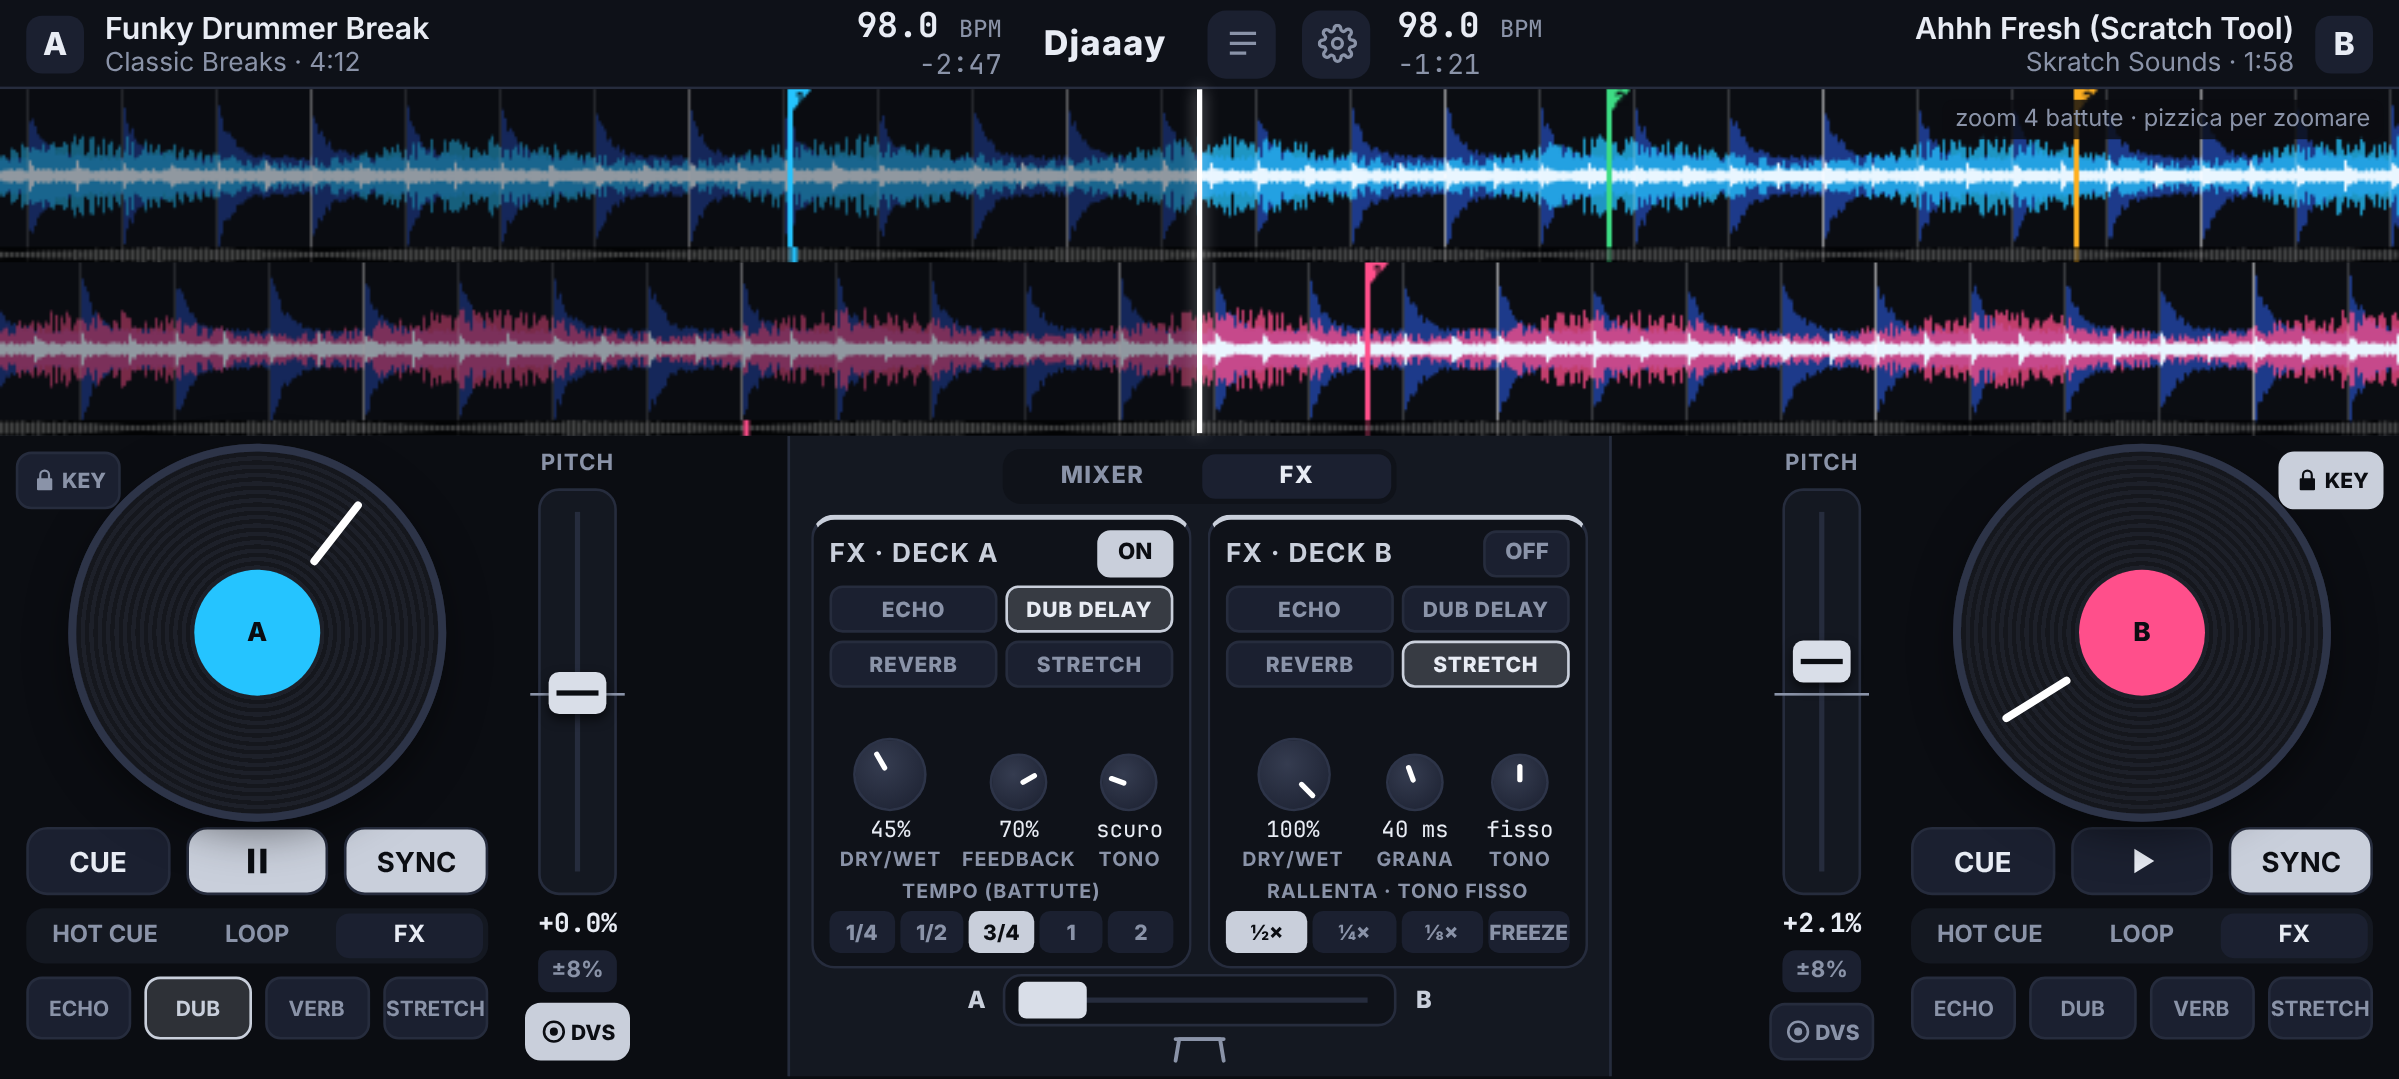
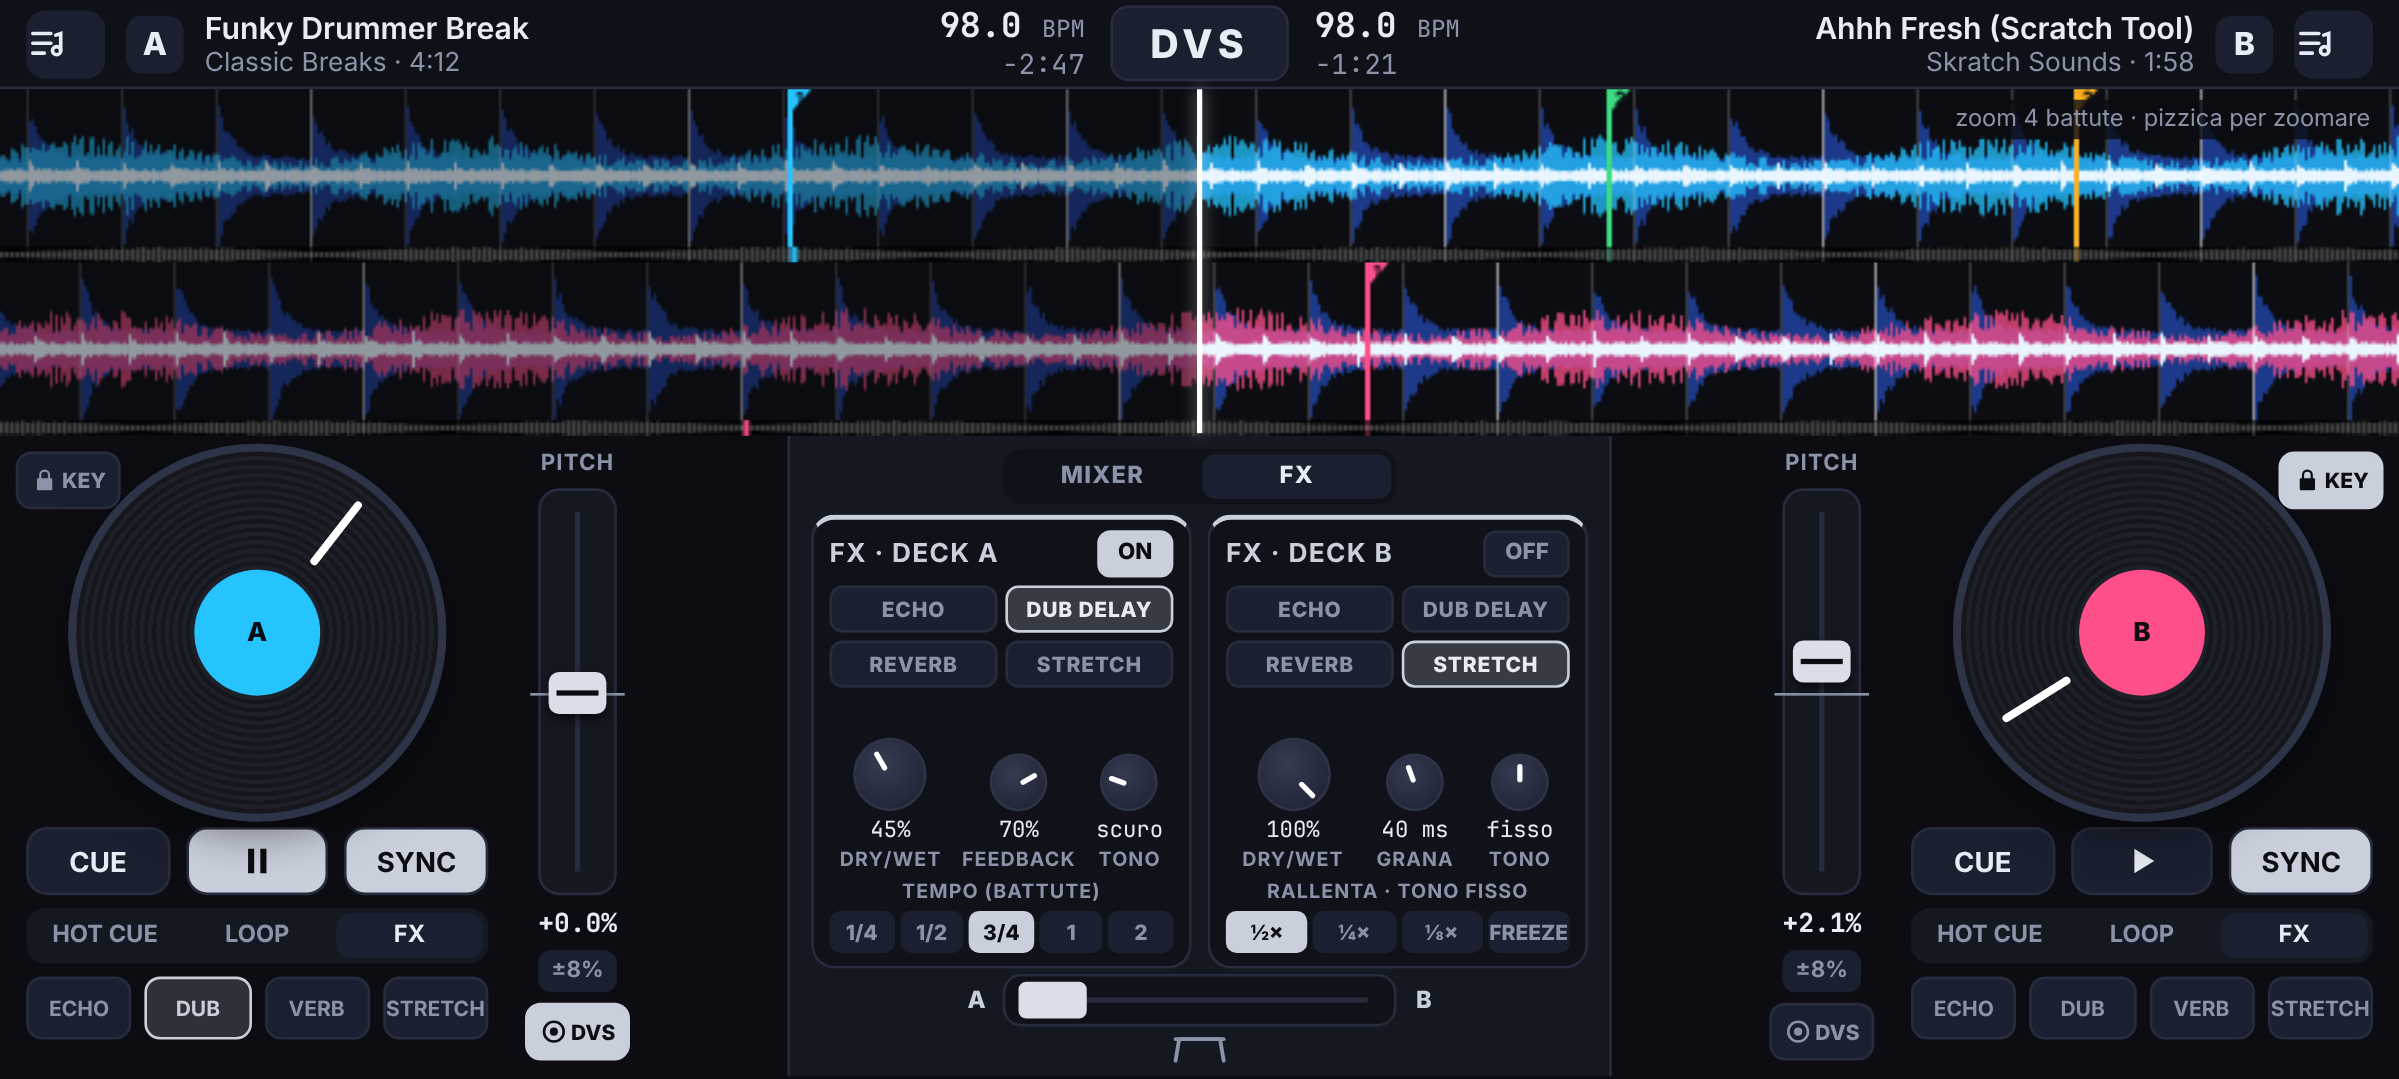
L'app si chiama DVS: nome al centro (apre le opzioni), libreria per deck
- applicationId com.toniaudio.dvs, etichetta DVS, Release con DVS.apk
- Bozze: libreria che si apre nello spazio del deck da cui la si apre

Claude-Session: https://claude.ai/code/session_01Q6837TbCDCCjM1wxVviTqv

Changed region(s): [[0.3393, 0.0, 0.6478, 0.0612], [0.7403, 0.0, 0.9871, 0.0612], [0.0, 0.0, 0.2159, 0.0612]]

diff --git a/design/bozze.html b/design/bozze.html
@@ -23,7 +23,7 @@ html,body{width:914px;height:411px;overflow:hidden;background:var(--bg);color:va
 .bpm{font-family:'JetBrains Mono';font-weight:700;font-size:13px}
 .bpm small{font-size:9px;color:var(--dim);font-weight:500}
 .time{font-family:'JetBrains Mono';color:var(--dim);font-size:10.5px}
-.logo{font-weight:800;letter-spacing:.5px;font-size:13px;padding:0 6px}
+.logo{font-weight:800;letter-spacing:2px;font-size:15px;padding:4px 14px;border-radius:7px;background:var(--panel2);border:1px solid var(--line)}
 .logo i{font-style:normal;color:var(--txt)}
 .ico{width:26px;height:26px;border-radius:7px;background:var(--panel2);display:grid;place-items:center;color:var(--dim)}
 .ico svg{width:15px;height:15px}
@@ -194,6 +194,28 @@ html,body{width:914px;height:411px;overflow:hidden;background:var(--bg);color:va
 .xcurve{width:22px;height:11px;color:var(--dim)}
 .col{position:relative}
 .kpos{position:absolute;top:0;z-index:2}
+
+.ico.lib{width:30px;height:26px;color:var(--txt)}
+.ico.lib.on{background:#c9cfdb;color:#0b0d12}
+/* libreria dentro il deck */
+.dlib{position:absolute;inset:0;background:#10131b;border:1px solid var(--line);border-radius:10px;margin:4px 6px;z-index:5;display:flex;flex-direction:column;overflow:hidden;box-shadow:0 8px 24px #000a}
+.dlh{display:flex;align-items:center;gap:6px;padding:6px 7px 4px}
+.dlh .srch{flex:1;height:24px;border-radius:7px;background:var(--panel);border:1px solid var(--line);display:flex;align-items:center;gap:6px;padding:0 8px;color:var(--dim);font-size:10px}
+.dlh .x{width:24px;height:24px;border-radius:6px;background:var(--panel2);display:grid;place-items:center;color:var(--dim)}
+.dlt{display:flex;gap:3px;padding:0 7px 4px}
+.dlt span{font-size:8.5px;font-weight:800;padding:3px 7px;border-radius:5px;color:var(--dim);background:var(--panel)}
+.dlt span.on{background:var(--panel2);color:var(--txt)}
+.dlr{display:grid;grid-template-columns:1fr 34px 30px;gap:6px;align-items:center;padding:0 9px;height:27px;border-top:1px solid #1a1f2c}
+.dlr .tt{min-width:0}
+.dlr .tt b{display:block;font-size:10px;font-weight:600;white-space:nowrap;overflow:hidden;text-overflow:ellipsis}
+.dlr .tt i{display:block;font-style:normal;font-size:8.5px;color:var(--dim);white-space:nowrap;overflow:hidden;text-overflow:ellipsis}
+.dlr .n{font-family:'JetBrains Mono';font-size:9.5px;text-align:right}
+.dlr .d{font-family:'JetBrains Mono';font-size:9px;color:var(--dim);text-align:right}
+.dlr.sel{background:#ffffff10}
+.dlr.car{color:var(--dim)}
+.dlf{margin-top:auto;padding:5px 8px;font-size:8.5px;color:var(--dim);border-top:1px solid var(--line);display:flex;justify-content:space-between}
+.dlrow-f{display:flex;align-items:center;gap:8px;padding:0 9px;height:27px;border-top:1px solid #1a1f2c;font-size:10px;font-weight:600}
+.dlrow-f em{font-style:normal;color:var(--dim);font-weight:500;margin-left:auto;font-size:9px}
 </style>
 </head>
 <body>
@@ -201,13 +223,11 @@ html,body{width:914px;height:411px;overflow:hidden;background:var(--bg);color:va
 <!-- ============ SCHERMATA 1: DECK ============ -->
 <div class="screen" id="s1">
   <div class="top">
-    <div class="trk"><div class="dot" style="background:var(--panel2);color:var(--txt)">A</div>
+    <div class="trk"><div class="ico lib" title="libreria deck A"><svg viewBox="0 0 24 24" fill="none" stroke="currentColor" stroke-width="2.2" stroke-linecap="round"><path d="M4 6h11M4 12h11M4 18h7"/><circle cx="18.5" cy="16.5" r="2.5"/><path d="M21 16.5V6l-3 1"/></svg></div><div class="dot" style="background:var(--panel2);color:var(--txt)">A</div>
       <div style="min-width:0"><div class="t">Funky Drummer Break</div><div class="s">Classic Breaks · 4:12</div></div>
       <div style="margin-left:auto;text-align:right"><div class="bpm">98.0 <small>BPM</small></div><div class="time">-2:47</div></div></div>
-    <div class="logo"><i>Djaaay</i></div>
-    <div class="ico" title="libreria"><svg viewBox="0 0 24 24" fill="none" stroke="currentColor" stroke-width="2"><path d="M4 6h16M4 12h16M4 18h10"/></svg></div>
-    <div class="ico" title="opzioni"><svg viewBox="0 0 24 24" fill="none" stroke="currentColor" stroke-width="2"><circle cx="12" cy="12" r="3"/><path d="M19.4 15a1.6 1.6 0 0 0 .3 1.8l.1.1a2 2 0 1 1-2.8 2.8l-.1-.1a1.6 1.6 0 0 0-1.8-.3 1.6 1.6 0 0 0-1 1.5V21a2 2 0 1 1-4 0v-.1a1.6 1.6 0 0 0-1-1.5 1.6 1.6 0 0 0-1.8.3l-.1.1a2 2 0 1 1-2.8-2.8l.1-.1a1.6 1.6 0 0 0 .3-1.8 1.6 1.6 0 0 0-1.5-1H3a2 2 0 1 1 0-4h.1a1.6 1.6 0 0 0 1.5-1 1.6 1.6 0 0 0-.3-1.8l-.1-.1a2 2 0 1 1 2.8-2.8l.1.1a1.6 1.6 0 0 0 1.8.3H9a1.6 1.6 0 0 0 1-1.5V3a2 2 0 1 1 4 0v.1a1.6 1.6 0 0 0 1 1.5 1.6 1.6 0 0 0 1.8-.3l.1-.1a2 2 0 1 1 2.8 2.8l-.1.1a1.6 1.6 0 0 0-.3 1.8V9a1.6 1.6 0 0 0 1.5 1H21a2 2 0 1 1 0 4h-.1a1.6 1.6 0 0 0-1.5 1z"/></svg></div>
-    <div class="trk b"><div class="dot" style="background:var(--panel2);color:var(--txt)">B</div>
+    <div class="logo" title="opzioni"><i>DVS</i></div>
+    <div class="trk b"><div class="ico lib" title="libreria deck B"><svg viewBox="0 0 24 24" fill="none" stroke="currentColor" stroke-width="2.2" stroke-linecap="round"><path d="M4 6h11M4 12h11M4 18h7"/><circle cx="18.5" cy="16.5" r="2.5"/><path d="M21 16.5V6l-3 1"/></svg></div><div class="dot" style="background:var(--panel2);color:var(--txt)">B</div>
       <div style="min-width:0"><div class="t">Ahhh Fresh (Scratch Tool)</div><div class="s">Skratch Sounds · 1:58</div></div>
       <div style="margin-right:auto;text-align:left"><div class="bpm">98.0 <small>BPM</small></div><div class="time">-1:21</div></div></div>
   </div>
@@ -308,7 +328,7 @@ html,body{width:914px;height:411px;overflow:hidden;background:var(--bg);color:va
   <div id="s3bg"></div>
   <div class="dim"></div>
   <div class="sheet">
-    <h2>Opzioni <span class="ico"><svg viewBox="0 0 24 24" fill="none" stroke="currentColor" stroke-width="2.4"><path d="M6 6l12 12M18 6L6 18"/></svg></span></h2>
+    <h2>Opzioni · DVS <span class="ico"><svg viewBox="0 0 24 24" fill="none" stroke="currentColor" stroke-width="2.4"><path d="M6 6l12 12M18 6L6 18"/></svg></span></h2>
     <div class="cols">
       <div>
         <h3>PIATTO E SCRATCH</h3>
@@ -416,6 +436,36 @@ fxScreen('s5',
   fxUnit('B',B,true,'REVERB',[['DRY/WET','30%',-55,1],['STANZA','grande',70],['DAMP','50%',0]],'CODA',['corta','media','lunga'],'lunga'),
   pad('ECHO',A,1)+pad('DUB',A)+pad('VERB',A)+pad('STRETCH',A),
   pad('ECHO',B)+pad('DUB',B)+pad('VERB',B,1)+pad('STRETCH',B));
+
+
+function libPanel(deck,tab,righe,nota){
+  const tabs=['Tutti','Cartelle','Playlist','Recenti'];
+  return `<div class="dlib"><div class="dlh"><div class="srch"><svg width="11" height="11" viewBox="0 0 24 24" fill="none" stroke="currentColor" stroke-width="2.6"><circle cx="11" cy="11" r="7"/><path d="M20 20l-4-4"/></svg>Cerca nel deck ${deck}…</div><div class="x"><svg width="11" height="11" viewBox="0 0 24 24" fill="none" stroke="currentColor" stroke-width="2.8"><path d="M6 6l12 12M18 6L6 18"/></svg></div></div>
+   <div class="dlt">${tabs.map(x=>`<span class="${x===tab?'on':''}">${x}</span>`).join('')}</div>${righe}<div class="dlf">${nota}</div></div>`;
+}
+const brano=(t,a,b,d,cls='')=>`<div class="dlr ${cls}"><div class="tt"><b>${t}</b><i>${a}</i></div><span class="n">${b}</span><span class="d">${d}</span></div>`;
+function libScreen(id,deckIdx,panel){
+  const sc=document.getElementById('s1').cloneNode(true);sc.id=id;
+  sc.querySelectorAll('canvas').forEach((c,i)=>{c.getContext('2d').drawImage(document.getElementById(i?'wb':'wa'),0,0)});
+  const d=sc.querySelectorAll('.deck')[deckIdx];d.insertAdjacentHTML('beforeend',panel);
+  sc.querySelectorAll('.ico.lib')[deckIdx].classList.add('on');
+  document.body.appendChild(sc);
+}
+libScreen('s6',0,libPanel('A','Tutti',
+  brano('Funky Drummer Break','Classic Breaks','98.0','4:12','car')+
+  brano('Impeach the Groove','Classic Breaks','96.4','3:31','sel')+
+  brano('Late Night Cuts','DJ Toni','92.0','5:05')+
+  brano('Boom Bap Loop 03','Beat Lab','90.0','2:20')+
+  brano('Sunday Groove','Mr Funk','104.2','4:48')+
+  brano('Battle Weapon Vol.2','Skratch Sounds','<span style="color:var(--warn)">…</span>','6:12'),
+  '<span>tocca un brano: si carica nel deck A</span><span>248 brani</span>'));
+libScreen('s7',1,libPanel('B','Cartelle',
+  `<div class="dlrow-f">▸ Download<em>12</em></div><div class="dlrow-f">▾ Musica / Scratch tools<em>34</em></div>`+
+  brano('Ahhh Fresh (Scratch Tool)','Skratch Sounds','98.0','1:58','car')+
+  brano('Fresh Vox Pack','Skratch Sounds','—','0:47','sel')+
+  brano('Battle Weapon Vol.2','Skratch Sounds','98.0','6:12')+
+  brano('Baby Scratch Loops','Q-Bert','88.0','3:02'),
+  '<span>tocca un brano: si carica nel deck B</span><span>Scratch tools</span>'));
 
 const s=new URLSearchParams(location.search).get('s')||'1';
 document.getElementById('s'+s).classList.add('on');

diff --git a/app/src/main/java/com/toniaudio/djaaay/MainActivity.kt b/app/src/main/java/com/toniaudio/djaaay/MainActivity.kt
@@ -31,7 +31,7 @@ class MainActivity : ComponentActivity() {
                 verticalArrangement = Arrangement.Center,
                 horizontalAlignment = Alignment.CenterHorizontally,
             ) {
-                Text("Djaaay", color = Color.White, fontSize = 32.sp)
+                Text("DVS", color = Color.White, fontSize = 32.sp)
                 Text(
                     if (audioOk) "Audio pronto: ${Motore.sampleRate()} Hz" else "Audio non disponibile",
                     color = Color(0xFF8A93A8),

diff --git a/CLAUDE.md b/CLAUDE.md
@@ -1,4 +1,4 @@
-# Djaaay — app DJ per Android (Google Pixel)
+# DVS (ex Djaaay) — app DJ per Android (Google Pixel)
 
 **Parla con l'utente in italiano.** L'utente non è uno sviluppatore: spiega ogni passaggio pratico (GitHub, installazione
 dell'APK, collegamento dell'X-Session) in modo semplice, un passo alla volta.
@@ -20,11 +20,17 @@ Niente streaming (Spotify ecc.: impossibile senza accordi commerciali).
   bloccati, quindi niente Android SDK in locale. Il motore C++ invece si compila e si testa qui (clang, `tests/`).
 - Google "developer verification" per app fuori dal Play Store (2026 alcuni paesi, 2027 ovunque): da ricontrollare.
 
+## Nome
+
+L'app si chiama **DVS** (27/10/2026; prima "Djaaay"). Nel codice il package Kotlin resta `com.toniaudio.djaaay`
+(nomi delle funzioni JNI), l'applicationId è `com.toniaudio.dvs`, l'APK pubblicato è `DVS.apk`.
+
 ## Grafica decisa (bozze in `design/`, sorgente `design/bozze.html`)
 
 - Tema scuro **neutro** (grigi/bianco). Colore SOLO nelle **waveform** (deck A azzurro, deck B rosa, bande blu/colore/bianco
   per bassi/medi/alti) e nel **centro dei dischi** (A azzurro, B rosa). Niente bottoni/scritte colorati per deck.
-- In alto: titolo, artista, BPM, tempo mancante per deck; logo; pulsanti libreria e opzioni.
+- In alto: per deck pulsante **libreria** all'estremità (A a sinistra, B a destra), titolo, artista, BPM, tempo mancante.
+  Al centro il nome **DVS**: toccandolo si aprono le **Opzioni** (nessun pulsante ingranaggio).
 - **Waveform alte** (2 strisce, A sopra B), puntina fissa al centro, griglia battute, bandierine hot cue,
   panoramica traccia sotto; pinch = zoom, trascinare = scratch (disattivabile).
 - Deck: disco touch (scratch), CUE / Play / SYNC, pad con tab HOT CUE · LOOP · FX; pitch verticale con valore,
@@ -38,7 +44,9 @@ Niente streaming (Spotify ecc.: impossibile senza accordi commerciali).
 - **FX**: un'unità per deck (FX · DECK A, FX · DECK B) con ON, scelta tra **ECHO, DUB DELAY, REVERB, STRETCH**,
   manopole DRY/WET + parametri, riga tempo (battute) o rapporto (stretch ½× ¼× ⅛× FREEZE).
   Pad FX del deck: tocco = on/off, tenere premuto = momentaneo. Keylock è separato (tasto KEY).
-- Libreria: Tutti i brani / Cartelle / Recenti / Playlist, ricerca, BPM calcolato, tasti A/B per caricare.
+- **Libreria per deck**: il pulsante libreria di un deck apre la libreria DENTRO lo spazio di quel deck (sotto le waveform,
+  senza coprire il mixer). Ricerca, tab Tutti / Cartelle / Playlist / Recenti, BPM e durata; tocco su un brano = caricato
+  in quel deck. Il brano già caricato è in grigio.
 - Opzioni: frizione slipmat, avvio, frenata, sensibilità piatto, scratch su waveform, escursione pitch, curva e inverti
   crossfader, MIDI (X-Session, LEARN), audio (uscita, pre-ascolto con scheda USB).
 

diff --git a/README.md b/README.md
@@ -1,4 +1,4 @@
-# Djaaay
+# DVS
 
 App DJ per **Android** (pensata per un Google Pixel in orizzontale): due deck, scratch col dito, mixer con EQ e filtro,
 crossfader, BPM e sync, hot cue, loop, effetti, controller **M-Audio X-Session Pro** via USB.
@@ -8,12 +8,12 @@ Suona i tuoi file (mp3, wav, m4a, flac…). Le bozze grafiche sono in [`design/`
 
 ## Installarla sul Pixel
 
-1. Dal telefono apri la pagina **Releases** di questo repository (Release **"ultima"**) e tocca **Djaaay.apk**.
+1. Dal telefono apri la pagina **Releases** di questo repository (Release **"ultima"**) e tocca **DVS.apk**.
 2. A download finito tocca la notifica (o apri *File › Download*) e poi **Installa**.
 3. La prima volta Android chiede di consentire l'installazione di app da Chrome (o da File): **consenti** e torna indietro.
 4. Se compare un avviso di Play Protect, tocca *Altri dettagli › Installa comunque* (l'app non viene dal Play Store).
 
-Per aggiornare: scarica di nuovo `Djaaay.apk` e installalo sopra. Le tue impostazioni restano.
+Per aggiornare: scarica di nuovo `DVS.apk` e installalo sopra. Le tue impostazioni restano.
 
 ## Per chi sviluppa
 
